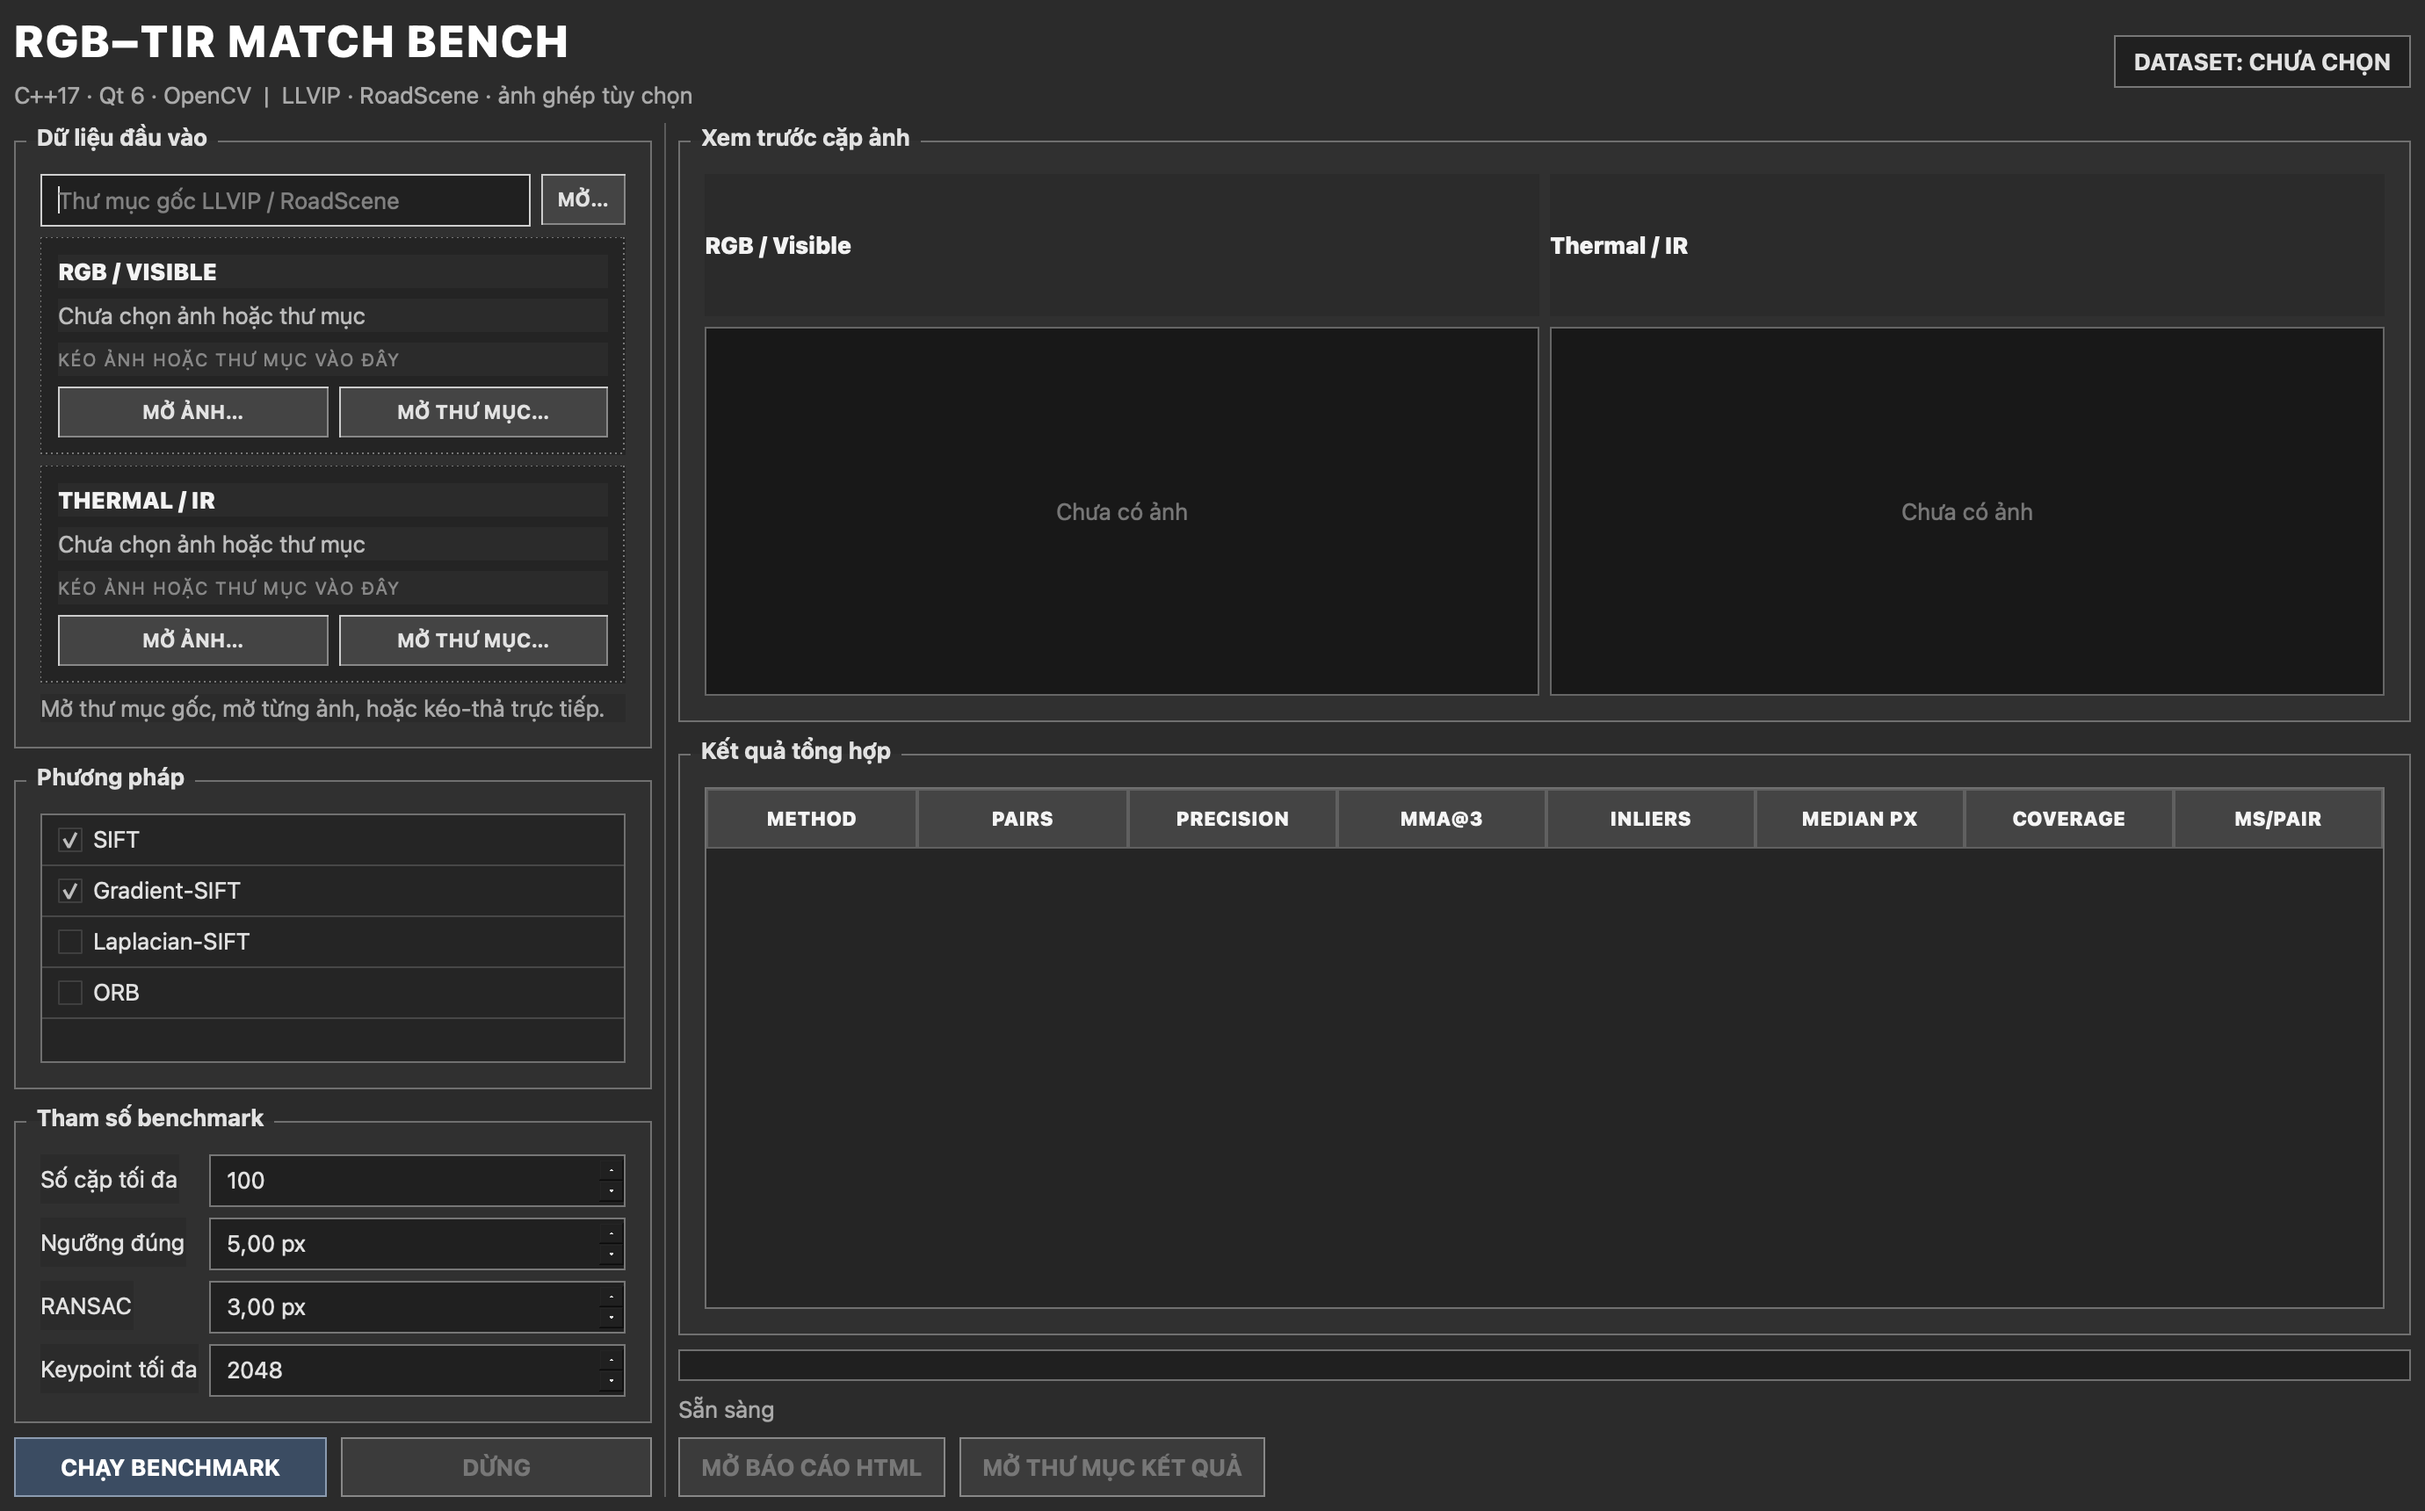
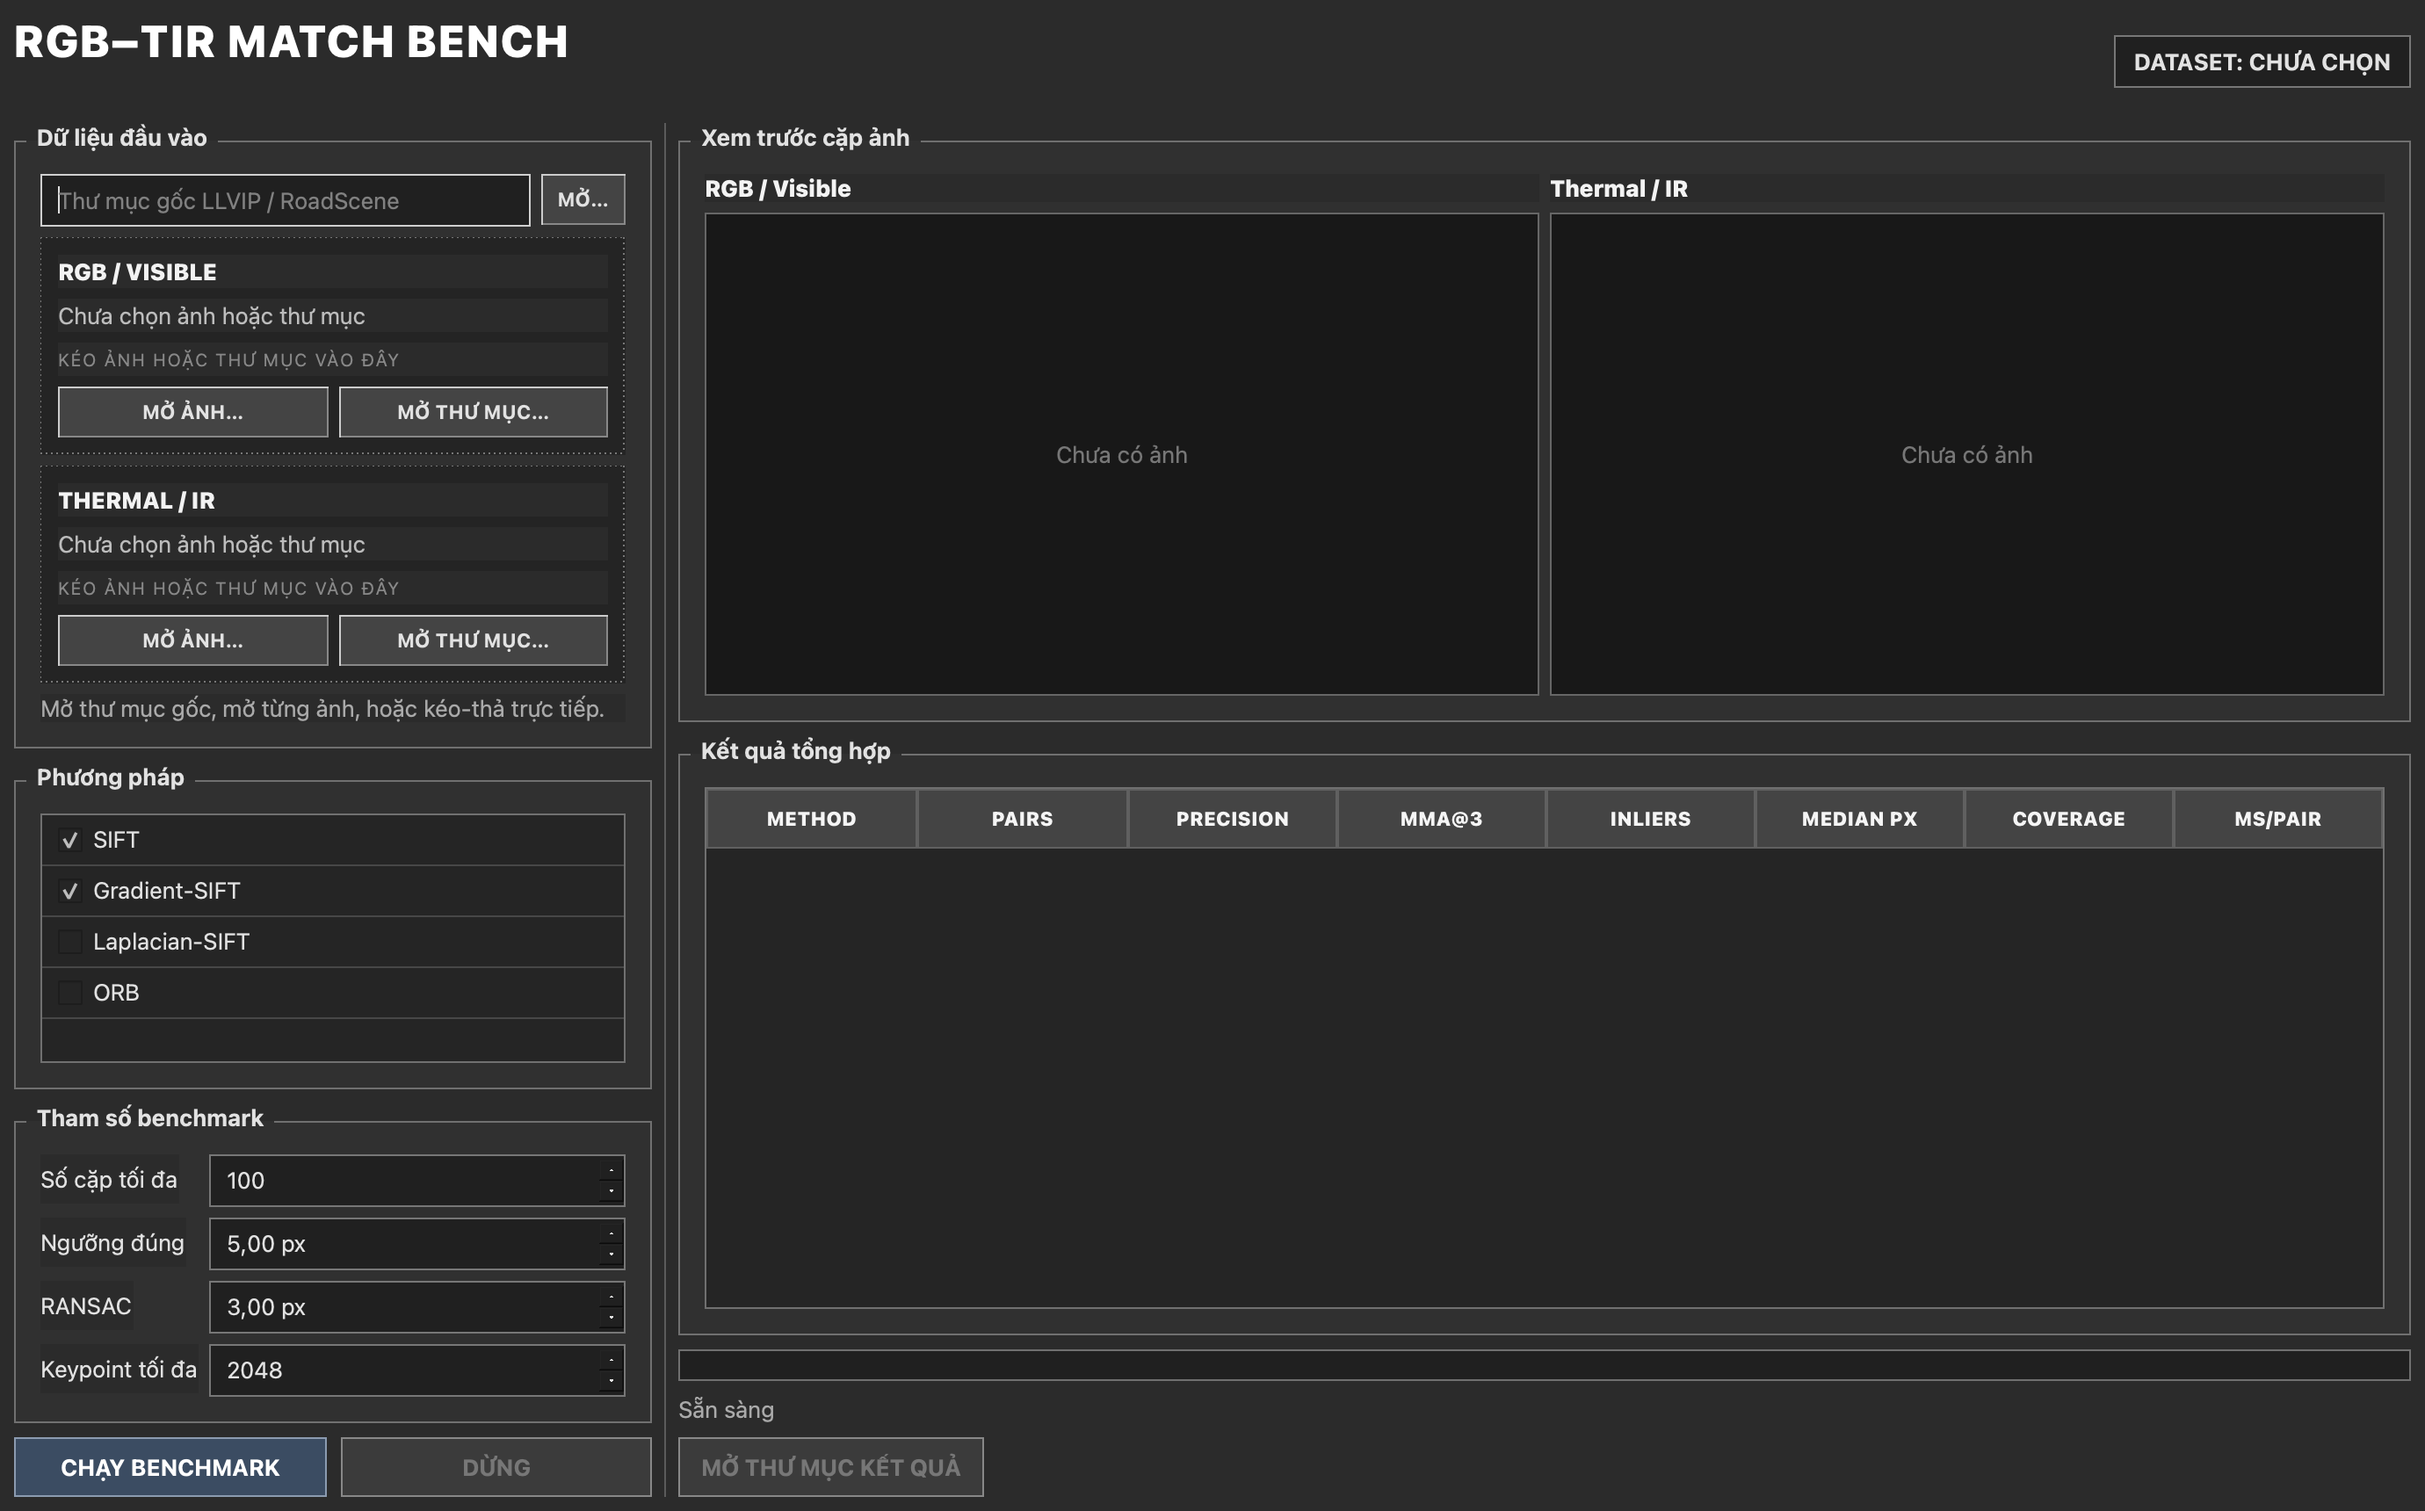
Remove HTML report output

diff --git a/src/ui/MainWindow.cpp b/src/ui/MainWindow.cpp
@@ -80,7 +80,6 @@ void MainWindow::buildUi()
     maxKeypoints_ = ui_->maxKeypointsSpin;
     runButton_ = ui_->runButton;
     stopButton_ = ui_->stopButton;
-    openReportButton_ = ui_->openReportButton;
     openRunDirectoryButton_ = ui_->openRunDirectoryButton;
     progressBar_ = ui_->progressBar;
     statusLabel_ = ui_->statusLabel;
@@ -116,7 +115,6 @@ void MainWindow::buildUi()
         button->setObjectName(QStringLiteral("smallButton"));
     runButton_->setObjectName(QStringLiteral("primaryButton"));
     stopButton_->setObjectName(QStringLiteral("secondaryButton"));
-    openReportButton_->setObjectName(QStringLiteral("outlineButton"));
     openRunDirectoryButton_->setObjectName(QStringLiteral("outlineButton"));
 
     methodList_->setSelectionMode(QAbstractItemView::NoSelection);
@@ -153,7 +151,6 @@ void MainWindow::buildUi()
     connect(thermalDrop_, &DropZone::pathChanged, this, &MainWindow::validateDataset);
     connect(runButton_, &QPushButton::clicked, this, &MainWindow::startBenchmark);
     connect(stopButton_, &QPushButton::clicked, this, &MainWindow::stopBenchmark);
-    connect(openReportButton_, &QPushButton::clicked, this, &MainWindow::openReport);
     connect(openRunDirectoryButton_, &QPushButton::clicked, this, &MainWindow::openRunDirectory);
     return;
 
@@ -334,7 +331,6 @@ void MainWindow::startBenchmark()
 
     resultTable_->setRowCount(0);
     progressBar_->setValue(0);
-    openReportButton_->setEnabled(false);
     openRunDirectoryButton_->setEnabled(false);
     setRunning(true);
 
@@ -403,7 +399,6 @@ void MainWindow::showResult(const BenchmarkResult &result)
             resultTable_->setItem(row, column, new QTableWidgetItem(values.at(column)));
     }
     statusLabel_->setText(QStringLiteral("HOÀN TẤT  ·  ") + result.runDirectory);
-    openReportButton_->setEnabled(true);
     openRunDirectoryButton_->setEnabled(true);
 }
 
@@ -411,12 +406,6 @@ void MainWindow::showFailure(const QString &message)
 {
     statusLabel_->setText(QStringLiteral("LỖI  ·  ") + message);
     QMessageBox::critical(this, QStringLiteral("Benchmark thất bại"), message);
-}
-
-void MainWindow::openReport()
-{
-    if (!lastRunDirectory_.isEmpty())
-        QDesktopServices::openUrl(QUrl::fromLocalFile(lastRunDirectory_ + QStringLiteral("/report.html")));
 }
 
 void MainWindow::openRunDirectory()

diff --git a/src/core/ReportWriter.cpp b/src/core/ReportWriter.cpp
@@ -175,24 +175,6 @@ void ReportWriter::writeAll(
         {QStringLiteral("pairs"), pairArray},
     }).toJson(QJsonDocument::Indented));
 
-    QFile htmlFile(runDirectory + QStringLiteral("/report.html"));
-    openForWrite(htmlFile);
-    QTextStream html(&htmlFile);
-    html << "<!doctype html><html lang='vi'><meta charset='utf-8'><title>RGB–TIR Match Bench</title>"
-            "<style>body{font:15px system-ui;max-width:1100px;margin:40px auto;padding:0 20px;color:#111}"
-            "h1{font-size:28px}table{border-collapse:collapse;width:100%}th,td{border-bottom:1px solid #ddd;padding:10px;text-align:right}"
-            "th:first-child,td:first-child{text-align:left}</style><h1>RGB–TIR Match Bench · C++/Qt</h1>"
-         << "<p>Ngưỡng đúng: " << number(config.correctnessPx, 1) << " px. Dữ liệu: "
-         << config.datasetName.toHtmlEscaped() << ".</p><table><tr><th>Method</th><th>Pairs</th><th>Precision</th>"
-            "<th>MMA@3</th><th>Inlier ratio</th><th>Median px</th><th>Coverage</th><th>ms/pair</th></tr>";
-    for (const SummaryRow &row : summary) {
-        html << "<tr><td>" << row.method.toHtmlEscaped() << "</td><td>" << row.pairs << "</td><td>"
-             << number(row.mean.precision * 100.0, 2) << "%</td><td>" << number(row.mean.mma3 * 100.0, 2)
-             << "%</td><td>" << number(row.mean.inlierRatio * 100.0, 2) << "%</td><td>"
-             << number(row.mean.medianError, 2) << "</td><td>" << number(row.mean.coverage * 100.0, 2)
-             << "%</td><td>" << number(row.mean.runtimeMs, 2) << "</td></tr>";
-    }
-    html << "</table><p><small>Metric 2D trên cặp ảnh đã căn chỉnh; không phải RMSE 3D của bài báo.</small></p></html>";
 }
 
 } // namespace rgbtir

diff --git a/src/ui/MainWindow.h b/src/ui/MainWindow.h
@@ -42,7 +42,6 @@ private slots:
         int total);
     void showResult(const rgbtir::BenchmarkResult &result);
     void showFailure(const QString &message);
-    void openReport();
     void openRunDirectory();
 
 private:
@@ -72,7 +71,6 @@ private:
     QSpinBox *maxKeypoints_ = nullptr;
     QPushButton *runButton_ = nullptr;
     QPushButton *stopButton_ = nullptr;
-    QPushButton *openReportButton_ = nullptr;
     QPushButton *openRunDirectoryButton_ = nullptr;
     QProgressBar *progressBar_ = nullptr;
     QLabel *statusLabel_ = nullptr;

diff --git a/tests/TestCore.cpp b/tests/TestCore.cpp
@@ -181,7 +181,7 @@ void TestCore::runsSiftAndWritesReports()
     QCOMPARE(result.summary.size(), 4);
     QCOMPARE(previewEvents, 4);
     QVERIFY(QFileInfo::exists(result.runDirectory + QStringLiteral("/summary.csv")));
-    QVERIFY(QFileInfo::exists(result.runDirectory + QStringLiteral("/report.html")));
+    QVERIFY(!QFileInfo::exists(result.runDirectory + QStringLiteral("/report.html")));
 }
 
 QTEST_APPLESS_MAIN(TestCore)

diff --git a/README.md b/README.md
@@ -18,7 +18,7 @@
 - Toàn bộ nút bấm và giao diện dùng bảng màu đơn sắc trắng–đen–xám.
 - Benchmark chạy trong `QThread`, không làm treo giao diện; hỗ trợ dừng sau cặp hiện tại.
 - Matcher tích hợp sẵn trong binary: SIFT, Gradient-SIFT, Laplacian-SIFT và ORB.
-- Xuất `per_pair.csv`, `summary.csv`, `results.json` và `report.html`.
+- Xuất `per_pair.csv`, `summary.csv` và `results.json`.
 - Unit test bằng Qt Test và CI GitHub Actions.
 
 Không có model, checkpoint, ONNX hay trọng số phải nạp thêm. SIFT là baseline thủ công chính được bài báo dùng để chỉ ra khó khăn của ghép RGB–TIR. Gradient-SIFT và Laplacian-SIFT chuyển hai modality sang biểu diễn cấu trúc trước khi trích đặc trưng, nhờ đó tạo đối chứng không cần học máy; ORB là baseline nhị phân nhẹ.
@@ -136,7 +136,7 @@ RoadScene/
 3. Chọn một hoặc nhiều matcher.
 4. Đặt số cặp tối đa, ngưỡng đúng, ngưỡng RANSAC và số keypoint.
 5. Bấm **CHẠY BENCHMARK**.
-6. Xem bảng kết quả, bấm **MỞ BÁO CÁO HTML** hoặc **MỞ THƯ MỤC KẾT QUẢ**.
+6. Xem bảng kết quả hoặc bấm **MỞ THƯ MỤC KẾT QUẢ** để lấy CSV/JSON.
 
 Mỗi lần chạy được lưu trong thư mục dữ liệu ứng dụng của hệ điều hành. Trên macOS:
 
@@ -144,8 +144,7 @@ Mỗi lần chạy được lưu trong thư mục dữ liệu ứng dụng của
 ~/Library/Application Support/soncris3012/RGB–TIR Match Bench/runs/YYYYMMDD-HHMMSS/
 ├── per_pair.csv
 ├── summary.csv
-├── results.json
-└── report.html
+└── results.json
 ```
 
 Chương trình lấy cùng một tập cặp ảnh cho mọi matcher với seed cố định `42`, tránh so sánh trên các mẫu khác nhau.
